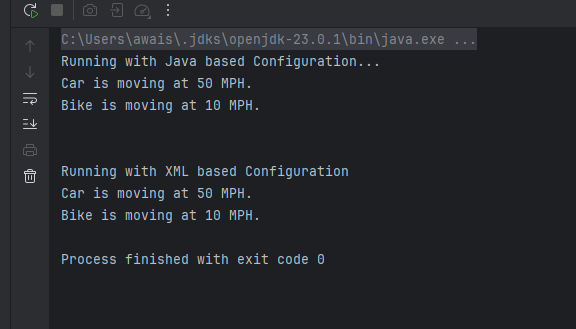
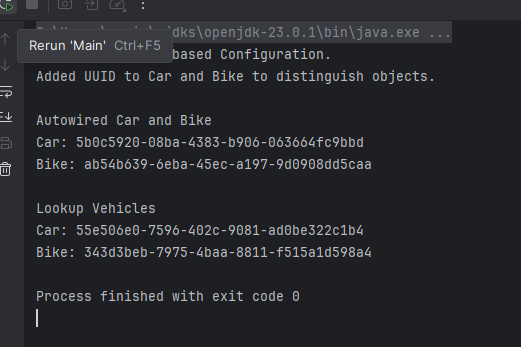
Lab06

diff --git a/src/main/java/edu/miu/ea/Main.java b/src/main/java/edu/miu/ea/Main.java
@@ -1,25 +1,14 @@
 package edu.miu.ea;
 
-import edu.miu.ea.config.SpringContext;
 import edu.miu.ea.springbeans.Game;
 import org.springframework.context.ApplicationContext;
-import org.springframework.context.annotation.AnnotationConfigApplicationContext;
 import org.springframework.context.support.ClassPathXmlApplicationContext;
 
 public class Main {
     public static void main(String[] args) {
-        System.out.println("Running with Java based Configuration...");
-        ApplicationContext javaBasedContext = new AnnotationConfigApplicationContext(SpringContext.class);
-        Game javaCarGame = javaBasedContext.getBean("carGame", Game.class);
-        Game javaBikeGame = javaBasedContext.getBean("bikeGame", Game.class);
-        javaCarGame.play();
-        javaBikeGame.play();
-
-        System.out.println("\n\nRunning with XML based Configuration");
+        System.out.println("Running with XML based Configuration.\nAdded UUID to Car and Bike to distinguish objects.\n");
         ApplicationContext xmlBasedContext = new ClassPathXmlApplicationContext("config.xml");
-        Game xmlCarGame = xmlBasedContext.getBean("carGame", Game.class);
-        Game xmlBikeGame = xmlBasedContext.getBean("bikeGame", Game.class);
-        xmlCarGame.play();
-        xmlBikeGame.play();
+        Game xmlCarGame = xmlBasedContext.getBean(Game.class);
+       xmlCarGame.play();
     }
 }

diff --git a/src/main/java/edu/miu/ea/springbeans/Game.java b/src/main/java/edu/miu/ea/springbeans/Game.java
@@ -1,13 +1,35 @@
 package edu.miu.ea.springbeans;
 
-public class Game {
-    private Vehicle vehicle;
+import org.springframework.beans.factory.annotation.Autowired;
+import org.springframework.beans.factory.annotation.Lookup;
+import org.springframework.stereotype.Component;
 
-    public Game(Vehicle vehicle) {
-        this.vehicle = vehicle;
+@Component
+public abstract class Game {
+    final Vehicle car;
+    final Vehicle bike;
+
+    @Autowired
+    public Game(Car car, Bike bike) {
+        this.car = car;
+        this.bike = bike;
     }
 
     public void play() {
-        vehicle.move();
+        System.out.println("Autowired Car and Bike");
+        car.move();
+        bike.move();
+
+        System.out.println("\nLookup Vehicles");
+        Car car1 = getCar();
+        Bike bike1 = getBike();
+        car1.move();
+        bike1.move();
     }
+
+    @Lookup
+    abstract Car getCar();
+
+    @Lookup
+    abstract Bike getBike();
 }

diff --git a/src/main/java/edu/miu/ea/springbeans/Car.java b/src/main/java/edu/miu/ea/springbeans/Car.java
@@ -1,9 +1,16 @@
 package edu.miu.ea.springbeans;
 
-public class Car implements Vehicle {
+import org.springframework.context.annotation.Scope;
+import org.springframework.stereotype.Component;
 
+import java.util.UUID;
+
+@Component
+@Scope(scopeName = "prototype")
+public class Car implements Vehicle {
+    private final String id = UUID.randomUUID().toString();
     @Override
     public void move() {
-        System.out.println("Car is moving at 50 MPH.");
+        System.out.println("Car: " + id);
     }
 }

diff --git a/src/main/java/edu/miu/ea/springbeans/Bike.java b/src/main/java/edu/miu/ea/springbeans/Bike.java
@@ -1,8 +1,16 @@
 package edu.miu.ea.springbeans;
 
+import org.springframework.context.annotation.Scope;
+import org.springframework.stereotype.Component;
+
+import java.util.UUID;
+
+@Component
+@Scope(scopeName = "prototype")
 public class Bike implements Vehicle {
+    private final String id = UUID.randomUUID().toString();
     @Override
     public void move() {
-        System.out.println("Bike is moving at 10 MPH.");
+        System.out.println("Bike: " + id);
     }
 }
